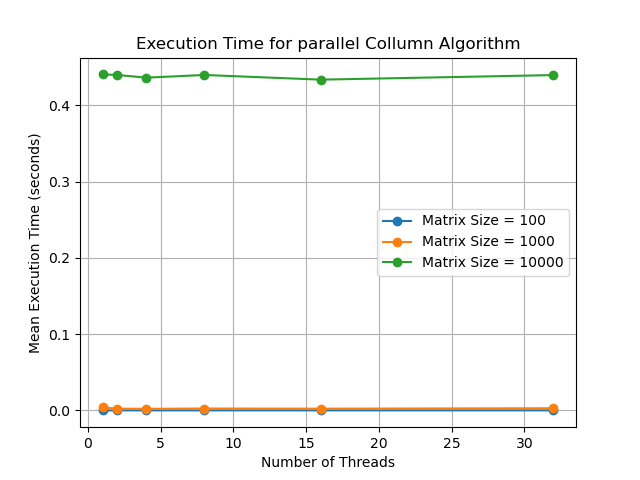
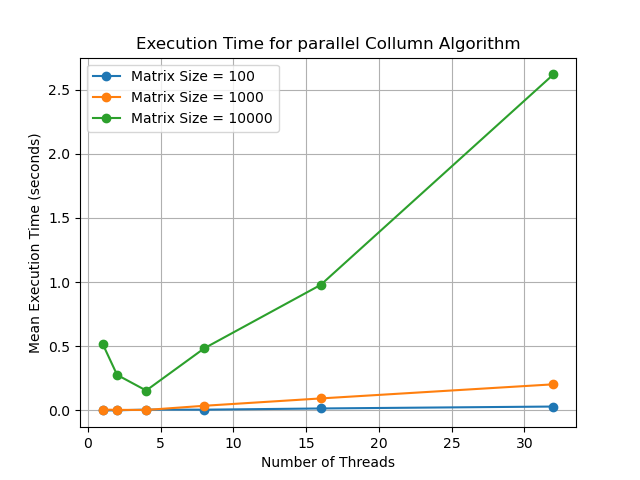
Added some comments

diff --git a/modules/exercise2.c b/modules/exercise2.c
@@ -3,6 +3,7 @@
 #include <time.h>
 #include "timer.h"
 
+//initialing nxn upper triangular with random values from 0-9
 void initialize_upper_triangular_matrix(int n, int** A, int* b) {
     srand(time(0));
     for (int i = 0; i < n; i++) {
@@ -17,7 +18,7 @@ void initialize_upper_triangular_matrix(int n, int** A, int* b) {
     }
 }
 
-
+//self-explanatory
 void printing_matrix(int**A,int n,int*b){
     for(int i=0;i<n;i++){
         for(int j=0;j<n;j++){
@@ -27,11 +28,13 @@ void printing_matrix(int**A,int n,int*b){
         printf("\n");fflush(stdout);
     }
 }
+//same
 void printing_results(double*x,int n ){
     for(int i =0;i<n;i++){
         printf("x%d is %f\n",i,x[i]);fflush(stdout);
     }
 }
+
 
 void serial_byRow(double* x,int n, int*b, int**A){
 
@@ -107,7 +110,11 @@ int main(int argc,char**argv){
     int* b = malloc(n*sizeof(int));
     double* x = malloc(n*sizeof(double));
     initialize_upper_triangular_matrix(n,A,b);
+
+
     double before,now;
+    //if it's parallel we execute the parallel row/collumn function else the serial functions
+
     if(Is_serial==0){
         if(Is_row_or_collumn==0){
             GET_TIME(before)
@@ -134,7 +141,7 @@ int main(int argc,char**argv){
         }
     }
     double elapsed_time = now-before;
-    printf("%f\n",elapsed_time);fflush(stdout);
+    printf("%f\n",elapsed_time);fflush(stdout); //calculatinh and printing the elapsed time
 
     for(int i=0;i<n;i++)
         free(A[i]);

diff --git a/scripts/plot_exercise2.py b/scripts/plot_exercise2.py
@@ -10,7 +10,7 @@ df = pd.read_csv("parallel_execution_times.csv")
 
 
 
-subset = df[df["Is_row_or_collumn"] == 0] #0 for row algorithm,1 for collumn
+subset = df[df["Is_row_or_collumn"] == 1] #0 for row algorithm,1 for collumn
 
 summary = subset.groupby(["matrix_size","thread_num"])["Execution_time"].mean().reset_index()
 
@@ -25,10 +25,10 @@ for matrix_size in summary["matrix_size"].unique():
 # Adding labels, title, and legend
 plt.xlabel("Number of Threads")
 plt.ylabel("Mean Execution Time (seconds)")
-plt.title("Execution Time for parallel Row Algorithm")
+plt.title("Execution Time for parallel Collumn Algorithm")
 plt.grid()
 plt.legend()
-plt.savefig("parallelbyRow_plot.png")
+plt.savefig("parallelbyCollumn_plot.png")
 
 
 

diff --git a/modules/updating_grid.c b/modules/updating_grid.c
@@ -2,6 +2,8 @@
 # include<omp.h>
 #include <stdio.h>
 void parallel_updating_grid(int*** grid,int***temp_grid,int num_of_threads,int size_of_grid){
+    //calculating how many alive neighbors each collumn have
+
     #pragma omp parallel for num_threads(num_of_threads) schedule(static)
     for(int row=0;row<size_of_grid;row++){
         for(int collumn = 0; collumn < size_of_grid;collumn++){

diff --git a/modules/exercise1.c b/modules/exercise1.c
@@ -22,7 +22,6 @@ int main(int argc,char**argv){
    
 
     //passing values from command line
-   
     int num_of_births = strtol(argv[1],NULL,10);
     int size_of_grid=strtol(argv[2],NULL,10);
     int Is_serial = strtol(argv[3],NULL,2);
